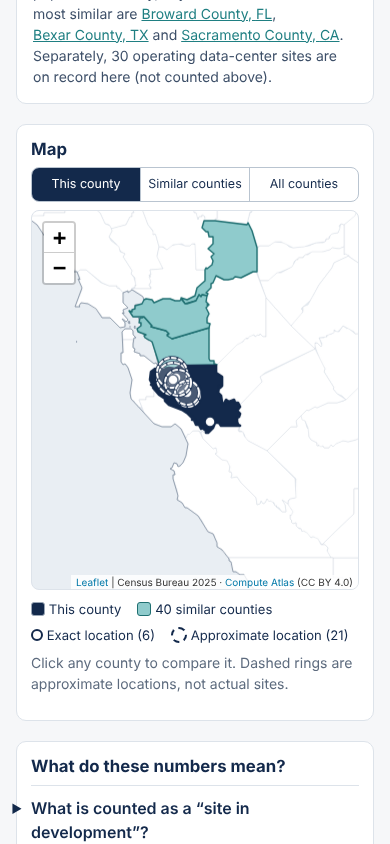
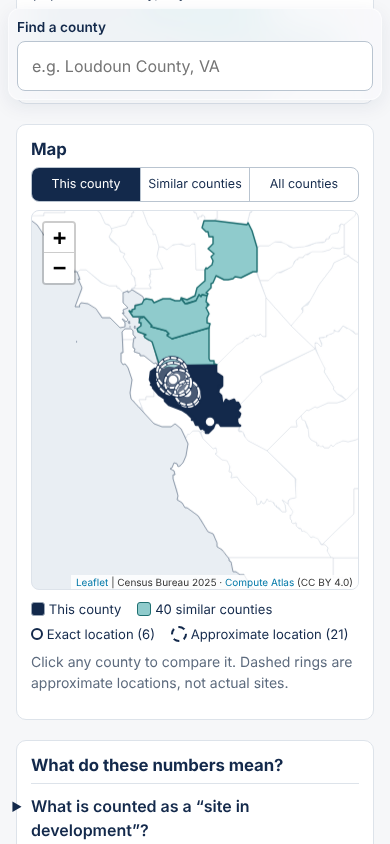
Apply Apple design principles: feedback, wayfinding, continuity
- Instant press feedback on buttons, chips and the map view switch
- Floating translucent search bar that stays reachable while scrolling
  and always shows which county is being compared
- Verdict and hero number cross-fade on change; the comparison bar
  morphs to its new split instead of jumping
- System font with size-specific tracking and leading
- Honour reduced motion, reduced transparency and increased contrast
- Chart labels stay inside the plot at either end of the axis

Claude-Session: https://claude.ai/code/session_018RNiN5ecF16HFF3BzVuWgz

diff --git a/src/styles.css b/src/styles.css
@@ -9,7 +9,8 @@
   --teal-soft: #e5f3f3;
   --focus: #1a73a8;
   --radius: 10px;
-  font-family: "Inter", system-ui, -apple-system, "Segoe UI", Roboto, sans-serif;
+  /* System font first: it ships optical sizing and tracking tables (apple-design §15). */
+  font-family: system-ui, -apple-system, "Segoe UI", Roboto, "Helvetica Neue", sans-serif;
   color: var(--ink);
   background: var(--bg);
   line-height: 1.5;
@@ -17,9 +18,10 @@
 
 * { box-sizing: border-box; }
 body { margin: 0; background: var(--bg); }
-h1, h2, h3, h4 { line-height: 1.25; margin: 0 0 0.5rem; }
-h1 { font-size: 1.75rem; font-weight: 700; }
-h2 { font-size: 1.4rem; }
+h1, h2, h3, h4 { line-height: 1.2; margin: 0 0 0.5rem; }
+h1 { font-size: 1.75rem; font-weight: 700; letter-spacing: -0.02em; }
+h2 { font-size: 1.4rem; letter-spacing: -0.015em; }
+h3 { letter-spacing: -0.005em; }
 h3 { font-size: 1.05rem; }
 h4 { font-size: 0.98rem; }
 p { margin: 0 0 0.75rem; }
@@ -53,6 +55,7 @@ main.wrap { padding-top: 20px; padding-bottom: 32px; }
 .notice { font-size: 0.875rem; color: var(--ink-2); margin: 8px 0 0; }
 
 .search-row { margin-bottom: 20px; }
+.search-row .examples { margin-top: 0; }
 .search { position: relative; max-width: 560px; }
 .search-label { display: block; font-weight: 600; margin-bottom: 6px; }
 .search input {
@@ -176,8 +179,9 @@ table.compact td { padding: 5px 8px; }
 .side-facts dt { font-size: 0.75rem; color: var(--muted); }
 .side-facts dd { margin: 0; font-weight: 600; font-size: 1.05rem; }
 .compare-title { font-size: 0.95rem; margin: 16px 0 8px; }
-.compare-bar { display: flex; gap: 2px; height: 20px; border-radius: 4px; overflow: hidden; background: var(--line); }
-.compare-bar span { display: block; min-width: 4px; }
+.compare-bar { display: flex; height: 20px; border-radius: 4px; overflow: hidden; background: var(--line); }
+.compare-bar span { display: block; min-width: 4px; flex-basis: 0; }
+.compare-bar span.empty { min-width: 0; }
 .compare-labels { display: flex; flex-wrap: wrap; gap: 4px 20px; list-style: none; padding: 0; margin: 8px 0 0; font-size: 0.92rem; }
 .compare-labels i { display: inline-block; width: 12px; height: 12px; border-radius: 3px; margin-right: 6px; vertical-align: -1px; }
 .compare-labels strong { font-size: 1.05rem; }
@@ -220,3 +224,52 @@ table.compact td { padding: 5px 8px; }
   .map-head h3 { width: 100%; }
 }
 .leaflet-control-attribution { font-size: 10px; }
+
+/* ---- apple-design: response, wayfinding, continuity, materials ---- */
+/* Instant press feedback on every control (respond on pointer-down). */
+button { transition: transform 100ms ease-out, background-color 120ms ease-out, border-color 120ms ease-out; }
+button:active:not(:disabled) { transform: scale(0.97); }
+.linkish:active { transform: none; opacity: 0.7; }
+
+/* Floating, translucent search bar: content scrolls under it; it always says which county is shown. */
+.search-bar {
+  position: sticky; top: 8px; z-index: 1100; display: flex; align-items: flex-end; gap: 12px 20px; flex-wrap: wrap;
+  margin: 0 -12px 10px; padding: 10px 12px; border-radius: 14px;
+  background: rgba(246, 247, 249, 0.72); -webkit-backdrop-filter: blur(18px) saturate(180%); backdrop-filter: blur(18px) saturate(180%);
+  border: 1px solid rgba(255, 255, 255, 0.6); box-shadow: 0 6px 20px rgba(19, 41, 75, 0.08);
+}
+.search-bar .search { flex: 1 1 360px; }
+.search-bar .search-label { font-size: 0.85rem; margin-bottom: 4px; }
+.comparing { margin: 0 0 12px; font-size: 0.9rem; color: var(--ink-2); }
+.sticky { top: 104px; }
+
+/* Continuity: the answer cross-fades in when the county changes; the comparison bar morphs to its new split. */
+.fade-in { animation: answer-in 220ms ease-out; }
+@keyframes answer-in { from { opacity: 0.35; } to { opacity: 1; } }
+.compare-bar span { transition: flex-grow 380ms cubic-bezier(0.25, 1, 0.5, 1); } /* critically damped feel, no overshoot */
+.hero-value { font-variant-numeric: proportional-nums; }
+.verdict { letter-spacing: -0.01em; }
+.hero-value { letter-spacing: -0.03em; }
+.eyebrow, .freshness-label { letter-spacing: 0.06em; }
+
+@media (max-width: 900px) {
+  .sticky { top: auto; }
+  .comparing { display: none; }
+}
+@media (max-width: 520px) {
+  .search-bar { margin: 0 -8px 10px; padding: 8px; border-radius: 12px; }
+}
+@media (prefers-reduced-motion: reduce) {
+  button { transition: none; }
+  button:active:not(:disabled) { transform: none; }
+  .compare-bar span { transition: none; }
+  .fade-in { animation: answer-in 150ms linear; } /* opacity only: non-vestibular */
+}
+@media (prefers-reduced-transparency: reduce) {
+  .search-bar { background: #f6f7f9; -webkit-backdrop-filter: none; backdrop-filter: none; }
+}
+@media (prefers-contrast: more) {
+  :root { --line: #8a97a8; --muted: #3d4a5c; }
+  .search-bar { background: #fff; border-color: var(--ink); backdrop-filter: none; }
+  .card { border-color: #6b7a8d; }
+}

diff --git a/src/components/ComparisonChart.tsx b/src/components/ComparisonChart.tsx
@@ -99,14 +99,24 @@ export default function ComparisonChart({ county, peer, byGeoid, snapshotDate, o
               stroke="#c5ced8"
               label={{ value: "Data-center sites in development on record", position: "bottom", offset: 12, fill: "#4a5a70", fontSize: 12 }}
             />
-            <YAxis type="number" dataKey="y" hide domain={[-1.5, maxStack + 1]} />
+            <YAxis type="number" dataKey="y" hide domain={[-2.6, maxStack + 1]} />
             <Tooltip content={<TooltipBody />} cursor={false} isAnimationActive={false} />
             <ReferenceLine
               x={peer.peer_median}
               stroke={INK_2}
               strokeDasharray="4 4"
               strokeOpacity={0.7}
-              label={{ value: `Typical: ${typicalPhrase(peer.peer_median)}`, position: "top", fill: INK_2, fontSize: 12 }}
+              label={({ viewBox }: { viewBox?: { x: number; y: number } }) => {
+                // Anchor the label away from the plot edge so it is never clipped.
+                const medPos = peer.peer_median / (maxX + 1);
+                const anchor = medPos < 0.25 ? "start" : medPos > 0.75 ? "end" : "middle";
+                const dx = anchor === "start" ? -4 : anchor === "end" ? 4 : 0;
+                return (
+                  <text x={(viewBox?.x ?? 0) + dx} y={(viewBox?.y ?? 0) - 8} textAnchor={anchor} fontSize={12} fill={INK_2}>
+                    Typical: {typicalPhrase(peer.peer_median)}
+                  </text>
+                );
+              }}
             />
             <Scatter
               data={peers}
@@ -127,7 +137,7 @@ export default function ComparisonChart({ county, peer, byGeoid, snapshotDate, o
                 return (
                   <g>
                     <path d={`M${cx},${cy - 8} L${cx + 8},${cy} L${cx},${cy + 8} L${cx - 8},${cy} Z`} fill={NAVY} stroke="#fff" strokeWidth={2} />
-                    <text x={cx} y={cy + 22} textAnchor={labelAnchor} fontSize={12} fontWeight={600} fill={NAVY}>
+                    <text x={cx} y={cy + 20} textAnchor={labelAnchor} fontSize={12} fontWeight={600} fill={NAVY}>
                       {county.county_name}: {county.pipeline_count}
                     </text>
                   </g>

diff --git a/src/components/CountySummary.tsx b/src/components/CountySummary.tsx
@@ -30,11 +30,14 @@ function ComparisonBar({ peer, name }: { peer: PeerRecord; name: string }) {
         role="img"
         aria-label={`Of ${total} similar counties, ${peer.n_fewer} have fewer sites on record than ${name}, ${peer.n_equal} have the same number, and ${peer.n_greater} have more.`}
       >
-        {parts
-          .filter((x) => x.n > 0)
-          .map((x) => (
-            <span key={x.key} style={{ flexGrow: x.n, background: x.color }} />
-          ))}
+        {/* All three segments always render so a change of county morphs the split (zero-width when empty). */}
+        {parts.map((x, i) => (
+          <span
+            key={x.key}
+            className={x.n === 0 ? "empty" : undefined}
+            style={{ flexGrow: x.n, background: x.color, marginLeft: x.n > 0 && parts.slice(0, i).some((y) => y.n > 0) ? 2 : 0 }}
+          />
+        ))}
       </div>
       <ul className="compare-labels" aria-hidden="true">
         {parts.map((x) => (
@@ -91,9 +94,9 @@ export default function CountySummary({ county, peer, metadata, byGeoid, onSelec
         <ShareButton />
       </div>
 
-      <p className={`verdict tone-${v.tone}`}>{v.headline}</p>
+      <p key={`v-${county.geoid}`} className={`verdict tone-${v.tone} fade-in`}>{v.headline}</p>
 
-      <div className="hero-row">
+      <div key={`h-${county.geoid}`} className="hero-row fade-in">
         <div className="hero">
           <span className="hero-value">{n}</span>
           <span className="hero-label">

diff --git a/src/App.tsx b/src/App.tsx
@@ -103,8 +103,14 @@ export default function App() {
 
         {data && county && peer && (
           <>
-            <section className="search-row" aria-label="Choose a county">
+            {/* Floating search stays reachable while scrolling and always shows where you are (wayfinding). */}
+            <div className="search-bar">
               <CountySearch metrics={data.metrics} onSelect={select} />
+              <p className="comparing" aria-hidden="true">
+                Comparing <strong>{county.county_name}, {county.state}</strong>
+              </p>
+            </div>
+            <section className="search-row" aria-label="Example counties">
               <p className="examples small">
                 <span className="muted">Try:</span>
                 {EXAMPLE_GEOIDS.filter((g) => data.byGeoid.has(g)).map((g) => {

diff --git a/NOTES.md b/NOTES.md
@@ -40,8 +40,10 @@
 - Map camera rules: map clicks never move the camera; search/table/chart selections glide (interruptible
   flyTo, instant under reduced motion); views = This county (default) | Similar counties (lower 48; AK/HI peers
   listed) | All counties (shaded). The map exposes `data-view="lat,lng,zoom"` for the e2e camera checks.
-- The owner's `apple-design` skill was added after this session started and could not be loaded here; apply it in
-  a new session (or from pasted content).
+- Owner's `apple-design` skill applied: instant press feedback on controls; floating translucent search bar
+  (sticky, blur, solid under reduced transparency) that always shows "Comparing <county>"; verdict/hero cross-fade
+  and a morphing comparison bar (all three segments always rendered); system font with size-specific tracking;
+  reduced-motion/transparency/contrast media queries. Map motion was already interruptible.
 
 ## Next steps
 1. Owner: give the three AI examples (ai/examples/*/output.md) a final read.
